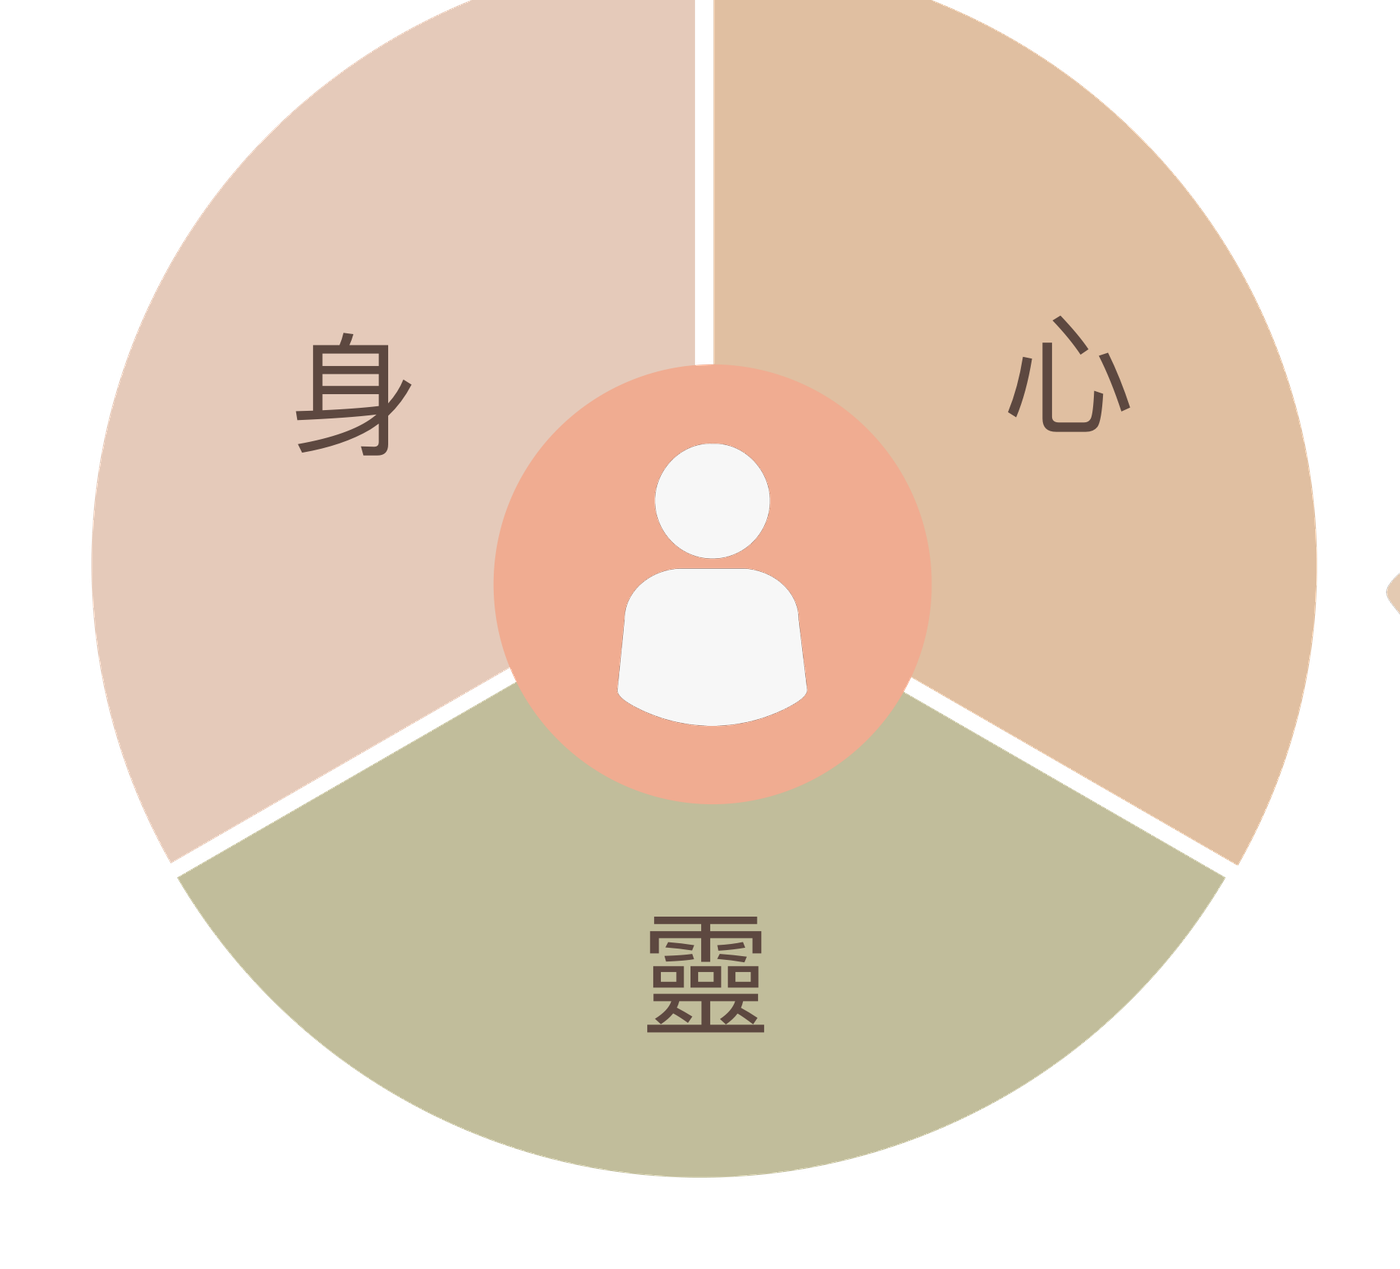
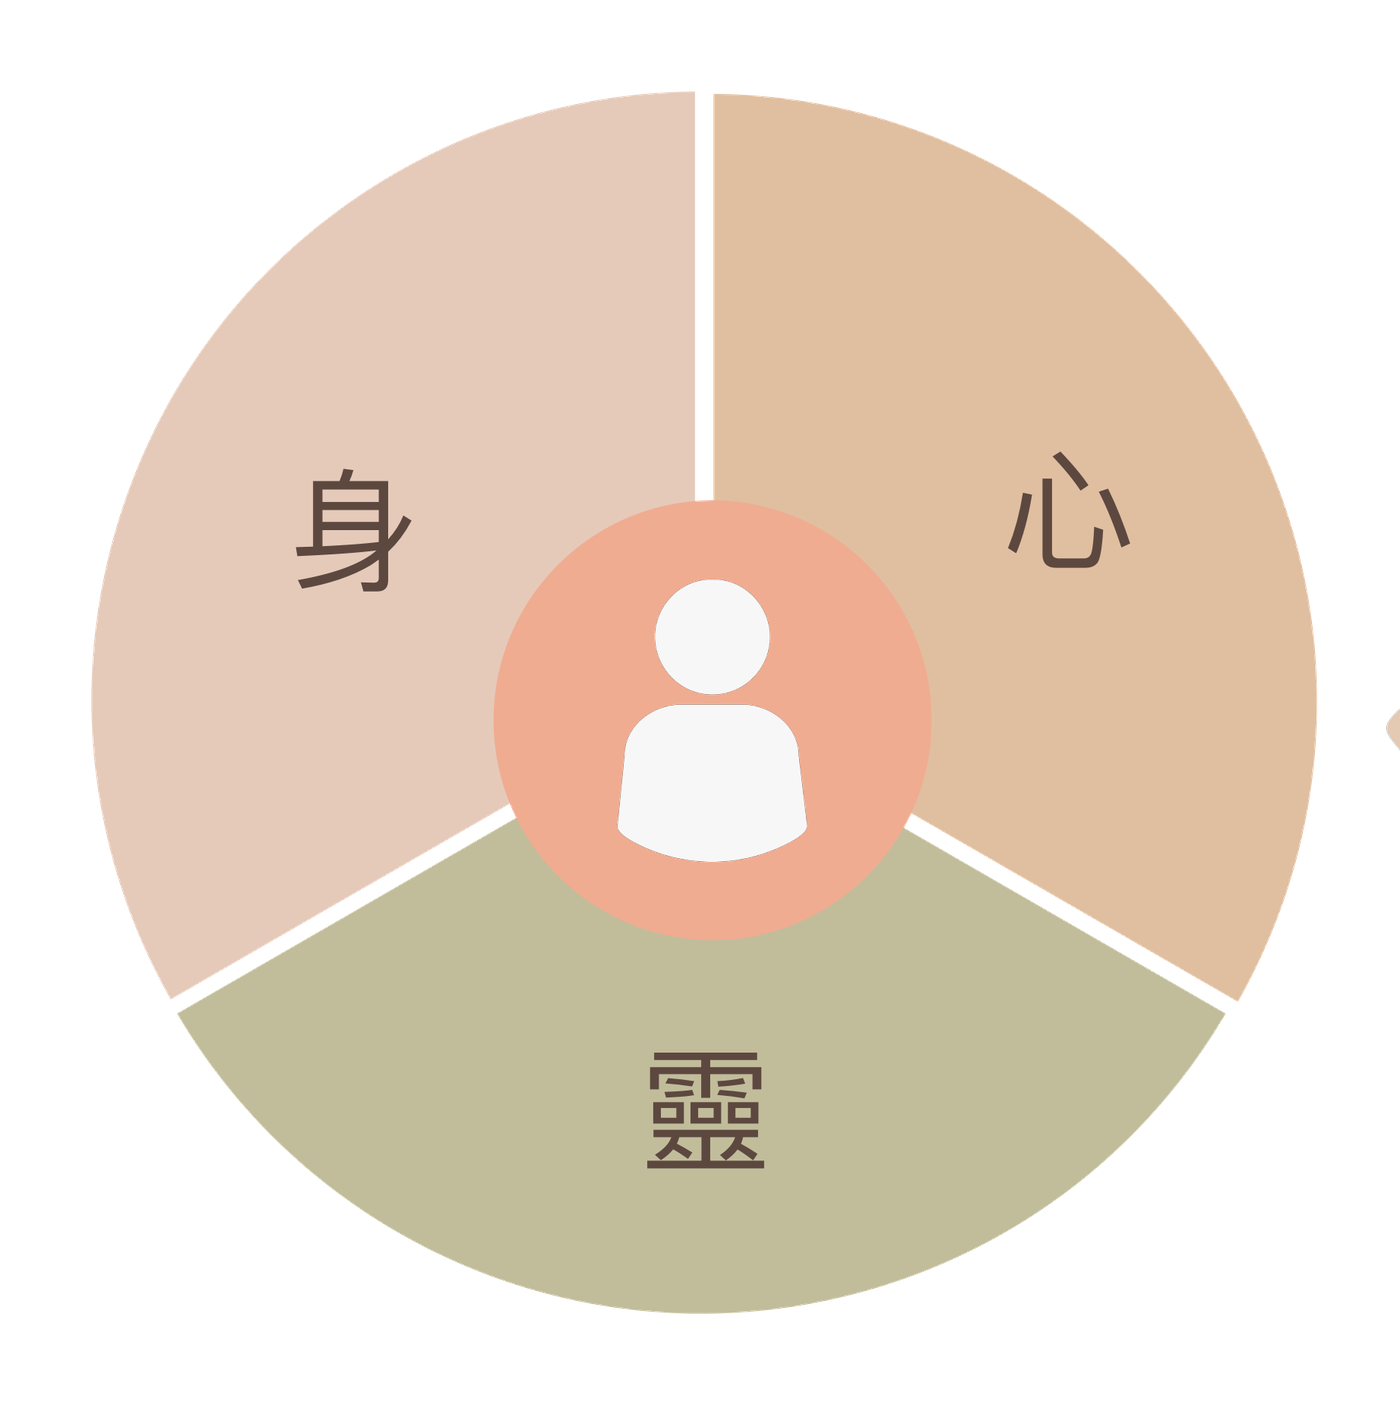
修正S32身心靈圓餅圖頂部被切掉的裁切錯誤（改用圓心+半徑幾何遮罩去標題，徹底避免誤切）；S34圖放大

diff --git a/index.html b/index.html
@@ -495,7 +495,7 @@ body.no-clickzones .click-zones{display:none}
   <h2>身心靈，是「結構」向度的具體展開</h2>
   <div style="display:flex;align-items:center;justify-content:center;gap:1.6vw;flex:1;width:100%">
     <div class="relwrap" style="flex:0 1 auto;max-width:42%">
-      <img src="images/structure-pie.png" width="1400" height="1269" alt="身心靈圓餅圖" style="width:100%;height:auto;max-height:58vh;object-fit:contain">
+      <img src="images/structure-pie.png" width="1400" height="1405" alt="身心靈圓餅圖" style="width:100%;height:auto;max-height:58vh;object-fit:contain">
     </div>
     <svg viewBox="0 0 70 40" width="70" height="40" style="width:3.2vw;height:auto;flex:0 0 auto" xmlns="http://www.w3.org/2000/svg" aria-label="箭頭指向身心靈圓餅圖">
       <line x1="65" y1="20" x2="16" y2="20" stroke="#A8782E" stroke-width="5" stroke-linecap="round"/>
@@ -520,7 +520,7 @@ body.no-clickzones .click-zones{display:none}
   <h2>向度三 · 人的過程性：在時間中的人</h2>
   <p class="lead" style="max-width:none">人不是靜止的照片，而是一段<b>展開中的旅程</b>。同一個人，在不同階段、不同面向，都有不同的樣貌與課題。</p>
   <div class="relwrap">
-    <img src="images/process-full.png" width="1900" height="974" alt="結構關係過程三環定位圖、生命四階段與生活四範疇箭頭圖、人生六面向食衣住行育樂色點" style="width:100%;height:auto;max-height:36vh;object-fit:contain">
+    <img src="images/process-full.png" width="2400" height="1230" alt="結構關係過程三環定位圖、生命四階段與生活四範疇箭頭圖、人生六面向食衣住行育樂色點" style="width:100%;height:auto;max-height:37vh;object-fit:contain">
   </div>
   <blockquote style="max-width:none;margin-top:.3em">生、老、病、死；成、住、壞、空——時間，是人學無法迴避的一維。</blockquote>
 </section>